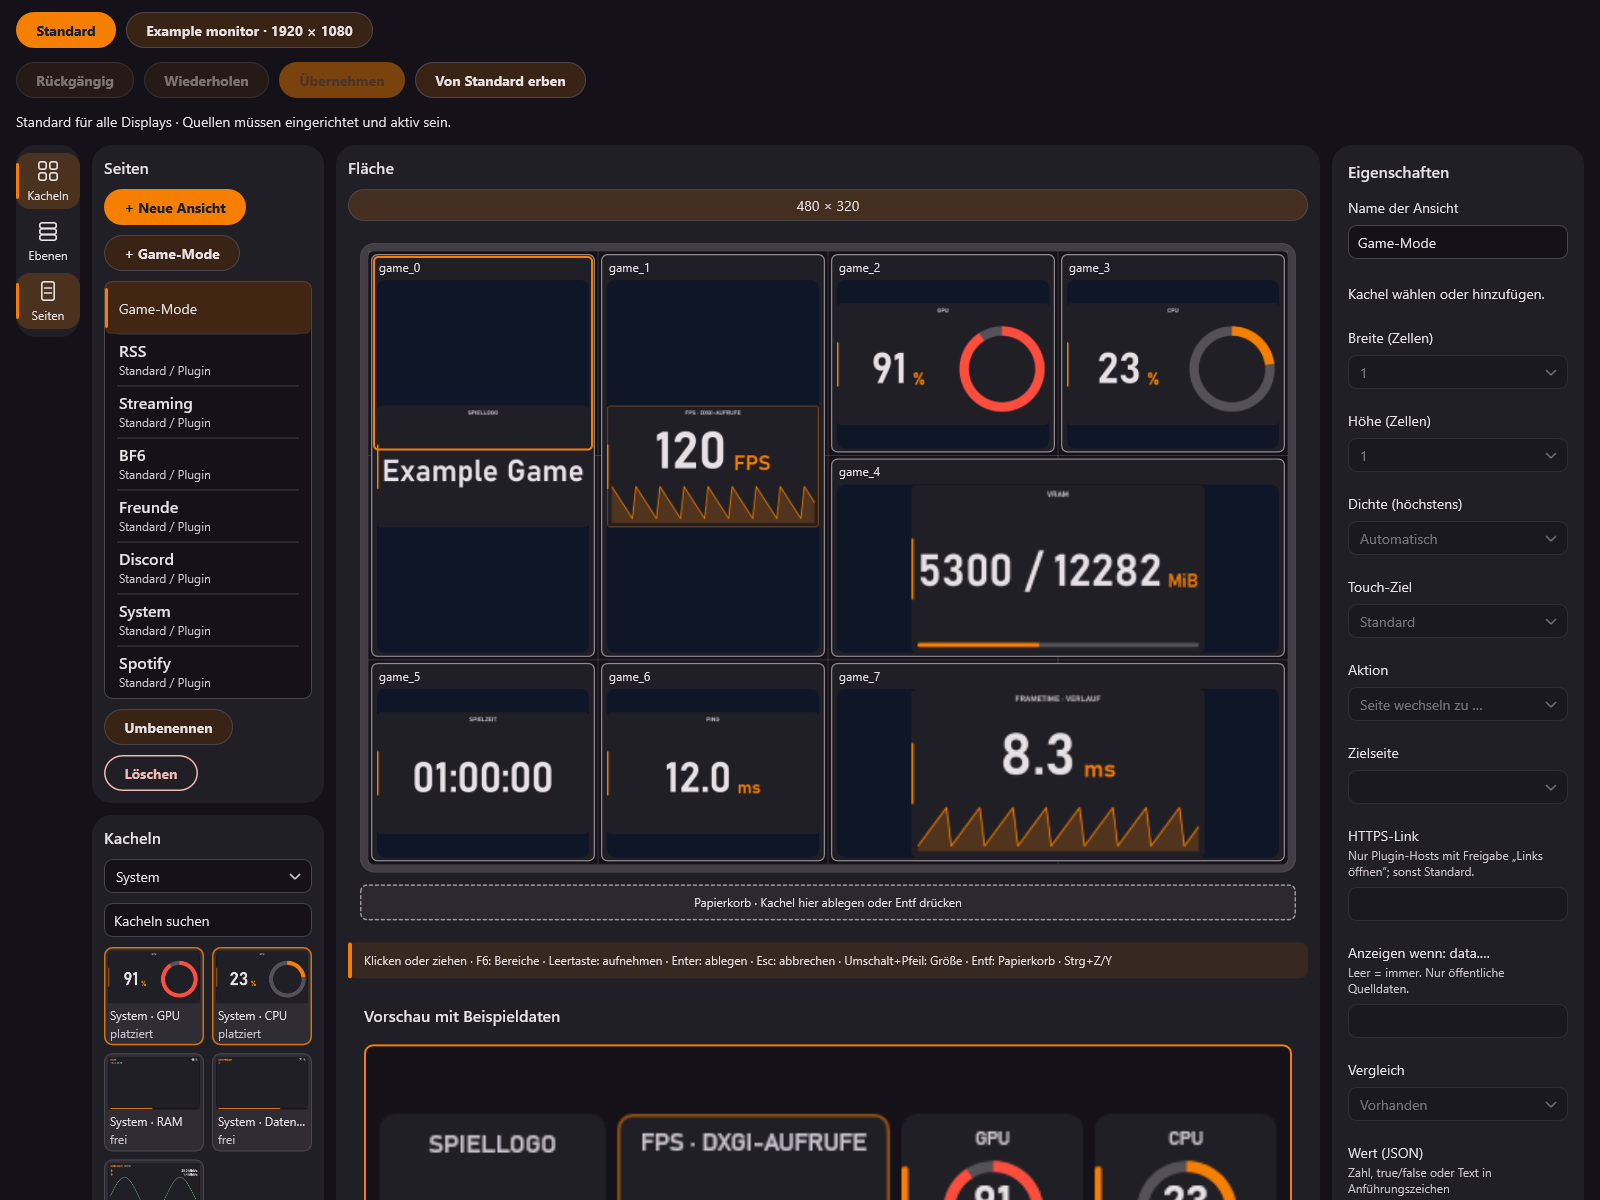
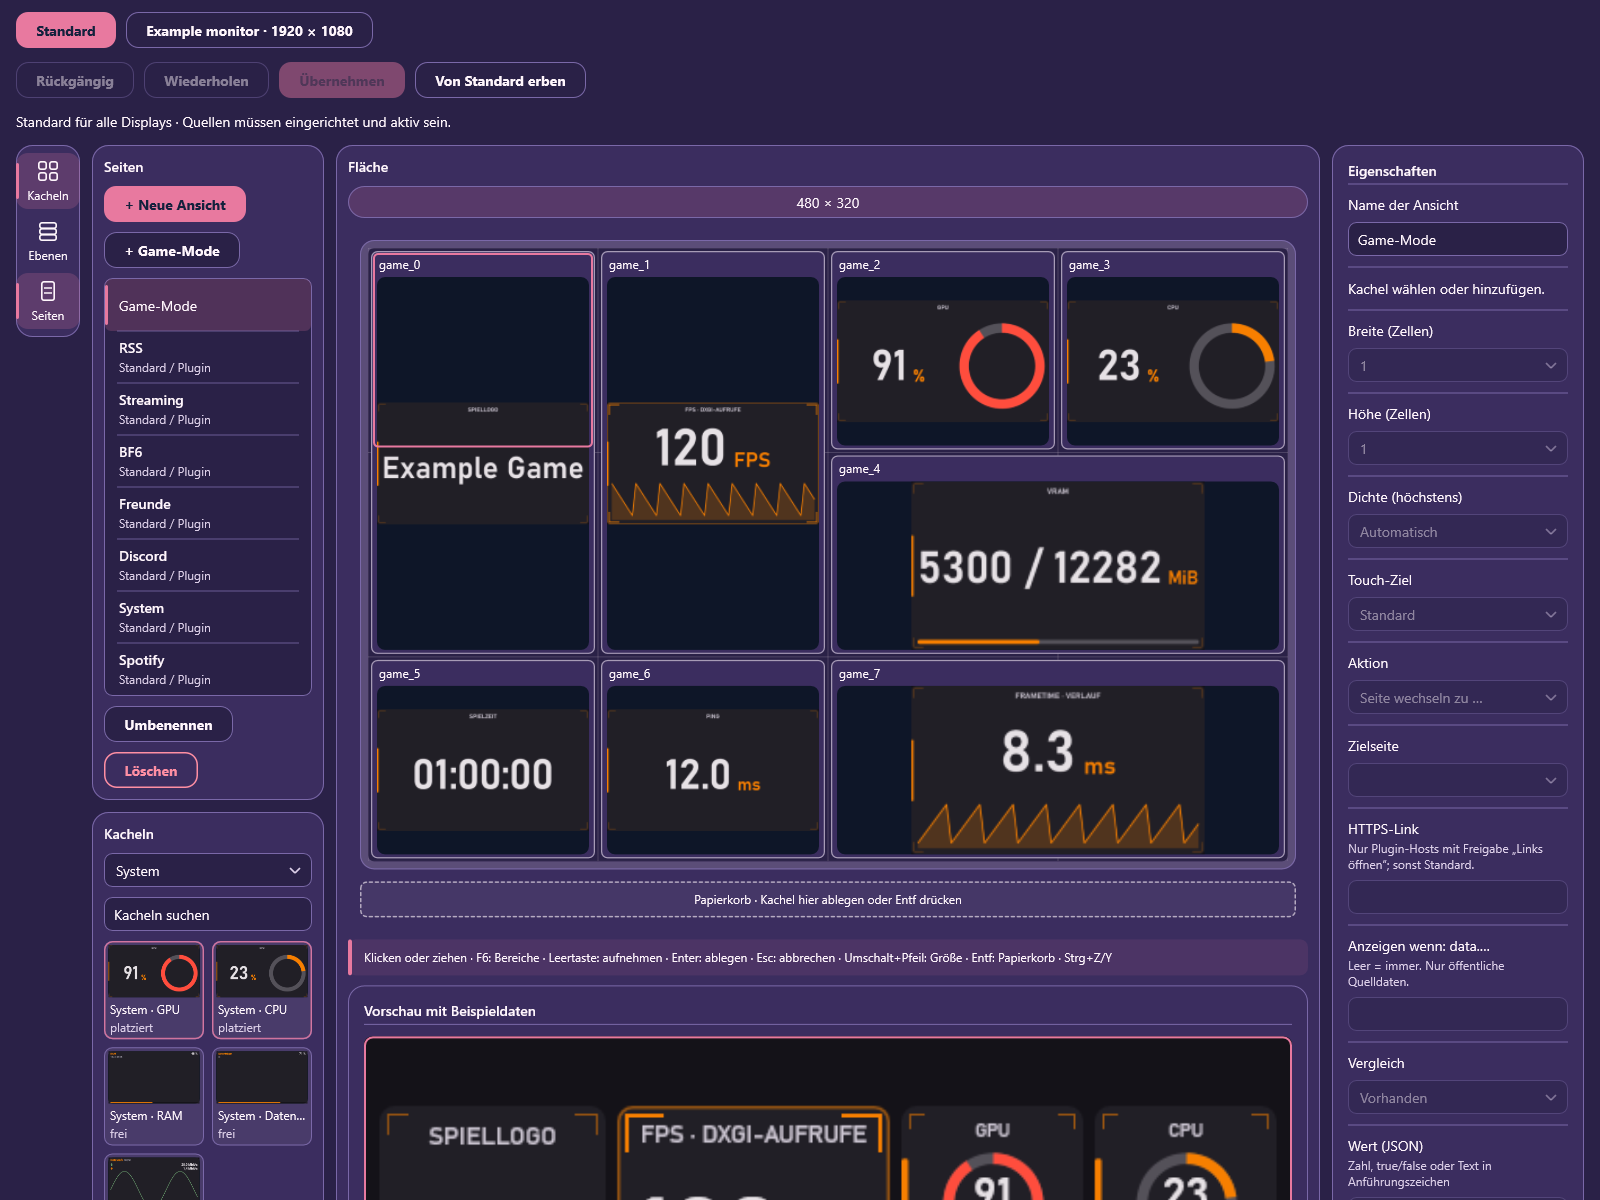
Release 2.15.0: Version, Changelog, Store-Listing (#74)
Theme Vice Sunset. Store-Paket 2.15.0.0 ist bereits veroeffentlicht.

diff --git a/cpp/src/util.h b/cpp/src/util.h
@@ -13,8 +13,8 @@
 
 namespace fl {
 
-inline constexpr const char* VERSION = "2.14.0";
-inline constexpr const char* UA = "ScreenBuddy/2.14.0";
+inline constexpr const char* VERSION = "2.15.0";
+inline constexpr const char* UA = "ScreenBuddy/2.15.0";
 
 // ---------- Text ----------
 std::wstring widen(std::string_view s);

diff --git a/packaging/windows/STORE-LISTING.md b/packaging/windows/STORE-LISTING.md
@@ -2,7 +2,11 @@
 
 ## Status
 
-### 2.14.0 (aktuell / current)
+### 2.15.0 (aktuell / current)
+
+Package `ScreenBuddy-2.15.0.0-x64.msix`, official identity verified in Partner Center, version 2.15.0.0. Prepared on 22 November 2026. Upload, certification and publication are pending; do not report complete until confirmed in Partner Center. The “what's new” texts below target 2.15.0. Description, features and keywords remain unchanged from 2.12.0 except for the Vice Sunset theme in Design. Four new 1600 × 1200 Vice Sunset captures with captions and provenance are in `Screenshots/`. / Paket `ScreenBuddy-2.15.0.0-x64.msix`, offizielle Identität im Partner Center geprüft, Version 2.15.0.0. Vorbereitet am 22.11.2026. Upload, Zertifizierung und Veröffentlichung stehen aus und gelten erst nach Bestätigung im Partner Center als abgeschlossen. Die Texte „Neues in dieser Version“ gelten für 2.15.0. Beschreibung, Funktionen und Stichwörter bleiben gegenüber 2.12.0 unverändert, mit Ausnahme des Vice-Sunset-Themes unter Design. Vier neue 1600 × 1200 Vice-Sunset-Aufnahmen samt Bildunterschriften und Herkunftsnachweis liegen unter `Screenshots/`.
+
+### 2.14.0 (vorherige Version / previous version)
 
 Package `ScreenBuddy-2.14.0.0-x64.msix`, identity `49510Herbst.ScreenBuddybyFuchsLabs`, version 2.14.0.0. Prepared on 21 November 2026; upload, certification and publication are open until recorded here. The “what's new” texts below target 2.14.0; description, features and keywords are unchanged from 2.12.0. Screenshots unchanged (2.11.0 renders). / Paket `ScreenBuddy-2.14.0.0-x64.msix`, Identität `49510Herbst.ScreenBuddybyFuchsLabs`, Version 2.14.0.0. Vorbereitet am 21.11.2026; Upload, Zertifizierung und Veröffentlichung sind offen, bis sie hier vermerkt sind. Die Texte „Neues in dieser Version“ gelten für 2.14.0; Beschreibung, Funktionen und Stichwörter unverändert gegenüber 2.12.0. Beispielbilder unverändert (2.11.0).
 
@@ -73,7 +77,7 @@ MUSIK, SMART HOME UND KI
 EIGENE ANSICHTEN, PLUGINS UND DESIGN
 • Eigene Ansichten: Im nativen Editor kombinierst du Einzelkacheln für System, Listen, Spotify, Home Assistant und KI im Raster zu eigenen Seiten – je Display, mit Rückgängig/Wiederholen und einem Touch-Ziel je Kachel.
 • Plugins: zusätzliche Seiten aus deklarativen Plugins mit Zonen-Layout; der integrierte, signierte Plugin-Katalog ist abschaltbar, und installierte Plugins bleiben aus, bis du sie aktivierst.
-• Design: Hell oder Dunkel, an Windows anpassen (Akzentfarbe), eigene Themes mit Editor, Import und Export sowie Designprofile im Cupertino-, Fluent- und Material-Stil.
+• Design: Hell oder Dunkel, an Windows anpassen, eigene Themes sowie Cupertino-, Fluent-, Material- und Vice-Sunset-Profile.
 • Neu: globale Animationsrate von 5 bis 60 Bildern pro Sekunde (Standard 30) unter Einstellungen → Anzeige → Animationen. Sie gilt für sichtbare Animationen wie Hardware-HUD, KI-Status, Spotify und Seitenübergänge. Der Wert ist ein Ziel, keine Garantie; das serielle USB-Display überträgt bauartbedingt deutlich langsamer.
 
 KOSTENLOSE ANDROID-COMPANION-APP
@@ -110,7 +114,7 @@ GUT ZU WISSEN
 12. KI-Status für Claude Code und Codex über lokale Hooks
 13. Eigene Ansichten: Kacheln im nativen Editor zu eigenen Seiten kombinieren, je Display
 14. Plugins mit Zonen-Layout und signiertem, abschaltbarem Plugin-Katalog
-15. Designs: Hell, Dunkel, an Windows anpassen, eigene Themes sowie Cupertino-, Fluent- und Material-Profile
+15. Designs: Hell, Dunkel, an Windows anpassen, eigene Themes sowie Cupertino-, Fluent-, Material- und Vice-Sunset-Profile
 16. Touch-Unterstützung auf Monitoren: wischen, tippen und passende Ziele öffnen
 17. Kostenlose Android-Companion-App für Handy, Tablet und Android-TV, auch mehrere Geräte gleichzeitig
 18. Native Windows-Einstellungen in Deutsch und Englisch mit Live-Vorschau und bebilderter Anleitung
@@ -121,12 +125,13 @@ GUT ZU WISSEN
 
 USB-Display; Systemmonitor; Hardware-Monitor; Zweitbildschirm; Game-Mode FPS; Sensoranzeige HWiNFO; Android-Companion
 
-### Neues in dieser Version (2.14.0; höchstens 1500 Zeichen)
+### Neues in dieser Version (2.15.0; höchstens 1500 Zeichen)
 
 ```text
-Neu in 2.14.0:
-• Eigener Anzeigename pro Freund: In der gemeinsamen Freundesliste (Discord, Steam, Xbox, PlayStation) kannst du jedem Freund einen eigenen Namen geben. Er erscheint statt des Plattformnamens auf Display und Companion, auch bei verknüpften Personen. Einstellungen → Freunde → Anzeigenamen.
-• Die Companion-App bleibt unverändert (1.2.0); ein Update ist nicht nötig.
+Neu in 2.15.0:
+• Neues Theme Vice Sunset: Pastell-Dämmerung mit Sonne und Palmen auf dem Display und im Game-Mode-Intro; wählbar unter Einstellungen → Farben & Design.
+• Native Einstellungen und Web-UI übernehmen die neue Farbpalette. Bangers-Schrift ist unter SIL OFL eingebettet.
+• Die Companion-App bleibt unverändert und zeigt das vom PC gerenderte Theme.
 ```
 
 ### Neues in dieser Version (2.13.0, vorherige Version; höchstens 1500 Zeichen)
@@ -194,7 +199,7 @@ MUSIC, SMART HOME AND AI
 CUSTOM VIEWS, PLUGINS AND DESIGN
 • Custom views: in the native editor you combine single tiles for system, lists, Spotify, Home Assistant and AI on a grid into your own pages – per display, with undo/redo and a touch target per tile.
 • Plugins: additional pages from declarative plugins with a zone layout; the integrated, signed plugin catalogue can be switched off, and installed plugins stay off until you enable them.
-• Design: light or dark, match Windows (accent colour), custom themes with editor, import and export, plus design profiles in Cupertino, Fluent and Material style.
+• Design: light or dark, match Windows, custom themes and Cupertino, Fluent, Material or Vice Sunset profiles.
 • New: global animation rate from 5 to 60 frames per second (default 30) under Settings → Display → Animations. It applies to visible animations such as the Hardware HUD, AI status, Spotify and page transitions. The value is a target, not a guarantee; the serial USB display transfers considerably more slowly by design.
 
 FREE ANDROID COMPANION APP
@@ -231,7 +236,7 @@ GOOD TO KNOW
 12. AI status for Claude Code and Codex through local hooks
 13. Custom views: combine tiles into your own pages in the native editor, per display
 14. Plugins with zone layout and a signed plugin catalogue that can be switched off
-15. Designs: light, dark, match Windows, custom themes, plus Cupertino, Fluent and Material profiles
+15. Designs: light, dark, match Windows, custom themes, plus Cupertino, Fluent, Material and Vice Sunset profiles
 16. Touch support on monitors: swipe, tap and open matching targets
 17. Free Android Companion app for phone, tablet and Android TV, including several devices at once
 18. Native Windows settings in English and German with live preview and an illustrated guide
@@ -242,12 +247,13 @@ GOOD TO KNOW
 
 USB display; system monitor; hardware monitor; second screen; game mode FPS; HWiNFO sensor display; Android companion
 
-### What's new in this version (2.14.0; at most 1500 characters)
+### What's new in this version (2.15.0; at most 1500 characters)
 
 ```text
-New in 2.14.0:
-• Custom display name per friend: in the combined friends list (Discord, Steam, Xbox, PlayStation) you can give each friend your own name. It is shown instead of the platform name on display and Companion, also for linked people. Settings → Friends → Display names.
-• The Companion app is unchanged (1.2.0); no update needed.
+New in 2.15.0:
+• New Vice Sunset theme: pastel dusk with sun and palms on the display and in the Game Mode intro; select it under Settings → Colours & design.
+• Native settings and the web UI use the new palette. Bangers font is embedded under the SIL Open Font License.
+• The Companion app is unchanged and displays the theme rendered by the PC.
 ```
 
 ### What's new in this version (2.13.0, previous version; at most 1500 characters)

diff --git a/packaging/windows/Screenshots/CAPTIONS.md b/packaging/windows/Screenshots/CAPTIONS.md
@@ -1,18 +1,8 @@
-# Store sample image captions / Bildunterschriften
+# ScreenBuddy 2.15.0 Store screenshots
 
-| File | Caption |
-|---|---|
-| de-game-mode.png | Game-Mode einrichten und FPS-Berechtigungen der Store-Ausgabe prüfen. |
-| de-editor.png | Eigene Spielansicht im nativen Editor – Vorschau mit Beispieldaten. |
-| en-game-mode.png | Configure Game Mode and check FPS permissions in the Store edition. |
-| en-editor.png | Custom gaming view in the native editor, with sample preview data. |
+- **de-game-mode.png** — Deutsch: Game-Mode-Einstellungen und Beispielansicht im Vice-Sunset-Farbschema. Synthetische Beispieldaten; keine Hardware- oder Kontenmessung.
+- **de-editor.png** — Deutsch: nativer Ansichts-Editor mit synthetischem Game-Mode-Layout, gerendert im Vice-Sunset-Farbschema.
+- **en-game-mode.png** — English: Game Mode settings and sample view in the Vice Sunset palette. Synthetic sample data; no hardware or account measurements.
+- **en-editor.png** — English: native custom-view editor with a synthetic Game Mode layout rendered in the Vice Sunset palette.
 
-Neu erzeugt am 10. November 2026 aus ScreenBuddy 2.11.0: Der echte native Seiten-/Widgetrenderer (`Page`/`TreeCanvas`) rendert in einer isolierten, entwicklerregistrierten MSIX-Paketidentität. Die vier unveränderten PNG-Dateien sind je 1600 × 1200 Pixel groß. Die lokale Identität ist keine offizielle Store-Identität. Die Bilder zeigen native Seiteninhalte ohne Fensterrahmen; sie sind keine Desktop-Fensteraufnahmen.
-
-Fresh renders on 10 November 2026 from ScreenBuddy 2.11.0. The real native page/widget renderer (`Page`/`TreeCanvas`) runs in an isolated developer-registered MSIX package context. Four unedited PNGs, each 1600 × 1200 pixels. The local identity is not an official Store identity. Images show native page contents without window chrome; they are not desktop window captures.
-
-Alle Geräte, Messwerte und Spielinformationen im Editor sind Beispieldaten. Die FPS-Berechtigung wird für das Beispiel fest auf „inaktiv“ gesetzt; Quellen und Integrationen sind deaktiviert. Keine echten Konten, Zugangsdaten oder privaten Pfade und keine Hardware-/Live-Spielabnahme. Alle vier Bilder wurden visuell auf Lesbarkeit, DE/EN-Texte und fehlende private Daten geprüft. Die früheren 2.9.6-Dateien wurden ersetzt, nicht umbenannt oder neu beschriftet.
-
-All devices, metrics and game information in the editor are synthetic samples. FPS permission is fixed to inactive for the sample; sources and integrations are disabled. No real accounts, credentials or private paths, and no hardware/live-game acceptance evidence. All four images were visually checked for readability, DE/EN text and absence of private data. Earlier 2.9.6 images were replaced, not relabeled.
-
-Reproduction: build `fl-layout-ui-tests`, then run `fl-layout-ui-tests.exe --export-store-listing <fresh-directory>` using `Invoke-CommandInDesktopPackage` in an isolated developer-registered test package. The exporter writes `capture-report.json` with version, package context and native help-control verification. It never records or updates snapshot goldens. Roboto 3.016 is the existing snapshot-test font prerequisite. `manifest.json` records exact PNG and capture-binary SHA-256 values. Microsoft certification and final Partner Center listing review remain separate.
+Capture source: native Page/TreeCanvas renderer in l-layout-ui-tests --export-store-listing; 1600 × 1200; synthetic sample data; no desktop capture, device evidence, or test suites run. See manifest.json for hashes and build provenance.

diff --git a/cpp/CHANGELOG.md b/cpp/CHANGELOG.md
@@ -1,8 +1,9 @@
 # Changelog
 
-## Unreleased
+## 2.15.0 – 2026-11-22
 
-- Theme Vice Sunset (ice-sunset, Style::Vice): Palette, Header-Szene in render.cpp, Auswahl im Design-Dialog, Web-UI-Theme mit eingebetteter Bangers (SIL OFL) / theme with embedded Bangers font. Bangers nativ (DirectWrite, eingebettet) / native Bangers, Retro-Szene im Game-Intro / game intro scene, Android `colors.xml` Vice. fl-tests 3581, game-tests 290, 0 Fehler/failures.
+- Theme Vice Sunset (`vice-sunset`, Style::Vice): Palette, Header-Szene, Auswahl im Design-Dialog, Web-UI-Theme und Game-Mode-Intro mit Retro-Szene. Bangers eingebettet für native Titel und Web-UI (SIL OFL). Android Companion unverändert; sie zeigt das vom PC gerenderte Bild.
+- Prüfstand aus dem bereitgestellten Übergabestand: fl-tests 3581, game-tests 290, 0 Fehler. In dieser Store-Vorbereitung nicht erneut ausgeführt.
 
 ## 2.14.0 – 2026-11-21
 

diff --git a/CHANGELOG.md b/CHANGELOG.md
@@ -4,9 +4,9 @@
 
 Alle nennenswerten Änderungen an der App. Format angelehnt an [Keep a Changelog](https://keepachangelog.com/de/1.1.0/), Versionen nach [SemVer](https://semver.org/lang/de/).
 
-## [Unveröffentlicht]
+## [2.15.0] - 2026-11-22
 
-- Neues Theme **Vice Sunset** (Pastell-Retro-Dämmerung): Display-Kopfzeile mit Verlauf, Sonne und Palmen, Auswahl in Farben & Design, Web-Einstellungsseite mit Hero-Szene und eingebetteter Schrift Bangers (SIL OFL). Details: [docs/THEMES.md](docs/THEMES.md).
+- Neues Theme **Vice Sunset**: Pastell-Dämmerung mit Palmen und Sonne auf Display und Game-Mode-Intro; auswählbar in **Farben & Design**. Native Einstellungen und Web-Oberfläche übernehmen das neue Farbschema; Bangers-Schrift ist eingebettet und lizenziert. Companion bleibt unverändert und zeigt das vom PC gerenderte Theme.
 
 ## [2.14.0] - 2026-11-21
 

diff --git a/CHANGELOG.en.md b/CHANGELOG.en.md
@@ -4,9 +4,9 @@
 
 All notable changes to the app. Format based on [Keep a Changelog](https://keepachangelog.com/en/1.1.0/), versions follow [SemVer](https://semver.org/).
 
-## [Unreleased]
+## [2.15.0] - 2026-11-22
 
-- New **Vice Sunset** theme (pastel retro dusk): display header with gradient, sun and palms, selectable under Colours & design, web settings page with hero scene and embedded Bangers font (SIL OFL). Details: [docs/THEMES.md](docs/THEMES.md).
+- New **Vice Sunset** theme: pastel dusk with palms and sun on the display and Game Mode intro; selectable under **Colours & design**. Native settings and web UI use the new palette; the Bangers font is embedded and licensed. The Companion app is unchanged and shows the theme rendered by the PC.
 
 ## [2.14.0] - 2026-11-21
 

diff --git a/README.md b/README.md
@@ -18,7 +18,7 @@ KI-Nutzung: Getrennte bestätigte Konto-Opt-ins sind standardmäßig aus. Claude
 
 **Dein Zusatzbildschirm zeigt, was dich interessiert: Systemwerte, Freunde, Spielstände und Neuigkeiten.**
 
-![Version](https://img.shields.io/badge/version-2.14.0-F77F00)
+![Version](https://img.shields.io/badge/version-2.15.0-F77F00)
 ![Plattform](https://img.shields.io/badge/plattform-Windows%2010%20%7C%2011-14213D)
 ![C++](https://img.shields.io/badge/C%2B%2B-20-00599C?logo=cplusplus&logoColor=white)
 ![Status](https://img.shields.io/badge/status-Testphase-F77F00)

diff --git a/README.en.md b/README.en.md
@@ -18,7 +18,7 @@ AI usage: separate confirmed real-account opt-ins default to off. Claude and Cod
 
 **Your second screen shows what matters to you: system stats, friends, game rankings and news.**
 
-![Version](https://img.shields.io/badge/version-2.14.0-F77F00)
+![Version](https://img.shields.io/badge/version-2.15.0-F77F00)
 ![Platform](https://img.shields.io/badge/platform-Windows%2010%20%7C%2011-14213D)
 ![C++](https://img.shields.io/badge/C%2B%2B-20-00599C?logo=cplusplus&logoColor=white)
 ![Status](https://img.shields.io/badge/status-testing-F77F00)
